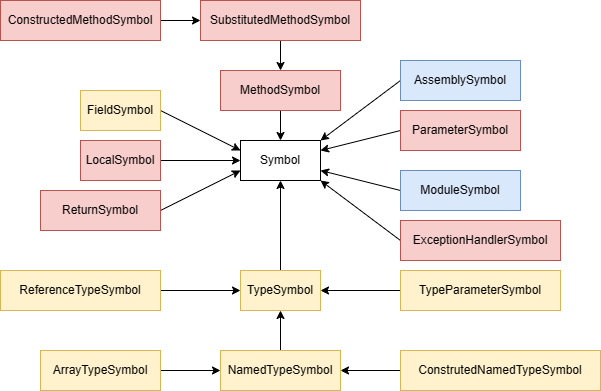
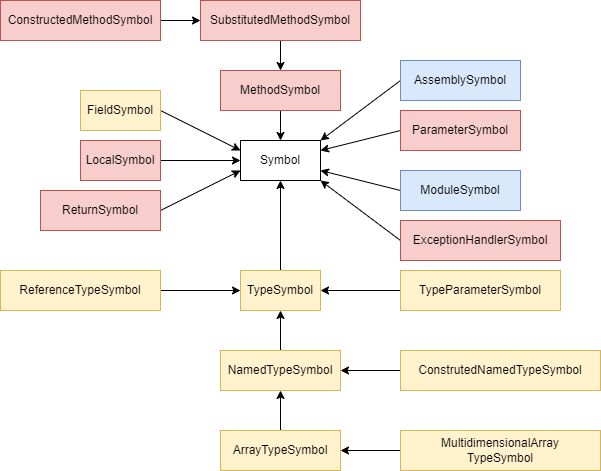
proof read and add multidimensional arrays

diff --git a/README.md b/README.md
@@ -11,11 +11,69 @@ interpreter and to provide a better support for the CIL language.
 
 Even though CIL is generated by multiple languages (C#, F#, VisualBasic), each one has its specific use-cases and
 edge-cases.
-In theory, it should not matter what language emits the CIL code, but some details might vary.
+In theory, it shouldn't matter what language emits the CIL code being interpreted, but some details might vary.
 For testing and development purposes, we have decided to use C# mainly for two reasons.
 Firstly, it was used for BACIL already.
 Secondly, all team members are familiar with it not only on the level of the language itself but also in some aspects 
 on the level of the .NET runtime and the CIL itself.
+
+## Content
+
+- [CILOSTAZOL](#cilostazol)
+  - [Content](#content)
+  - [Existing technologies](#existing-technologies)
+    - [GraalVM](#graalvm)
+    - [Truffle framework](#truffle-framework)
+    - [.NET](#net)
+      - [Type system](#type-system)
+      - [Value semantics](#value-semantics)
+      - [String](#string)
+      - [Managed pointers](#managed-pointers)
+      - [Arrays](#arrays)
+    - [BACIL](#bacil)
+      - [Parser](#parser)
+      - [Type system](#type-system-1)
+      - [Runtime](#runtime)
+    - [Espresso](#espresso)
+  - [Problem analysis](#problem-analysis)
+    - [CIL vs. Bytecode](#cil-vs-bytecode)
+    - [BACIL](#bacil-1)
+    - [Espresso](#espresso-1)
+    - [Multi-dimensional arrays](#multi-dimensional-arrays)
+  - [Developer documentation](#developer-documentation)
+    - [Parser](#parser-1)
+      - [Low-level parser](#low-level-parser)
+      - [Symbol factories](#symbol-factories)
+    - [Type system](#type-system-2)
+      - [Symbols](#symbols)
+      - [Generics](#generics)
+      - [Static object model](#static-object-model)
+      - [String](#string-1)
+      - [Arrays](#arrays-1)
+    - [Interpreter](#interpreter)
+      - [CIL interpretation](#cil-interpretation)
+      - [Type resolution](#type-resolution)
+      - [Exception handling](#exception-handling)
+      - [Static analysis](#static-analysis)
+      - [Stub methods and STDLIB](#stub-methods-and-stdlib)
+      - [Nodeization](#nodeization)
+      - [OSR](#osr)
+    - [Launcher](#launcher)
+  - [Tests](#tests)
+    - [Own tests](#own-tests)
+      - [Test from dll](#test-from-dll)
+      - [Test from code](#test-from-code)
+      - [Test from file](#test-from-file)
+    - [Pipeline](#pipeline)
+    - [Granularity](#granularity)
+    - [Benchmark game](#benchmark-game)
+      - [Benchmarking methodology](#benchmarking-methodology)
+      - [Benchmarking script](#benchmarking-script)
+      - [Results](#results)
+  - [Development process](#development-process)
+  - [Conclusion](#conclusion)
+  - [Appendix](#appendix)
+
 
 ## Existing technologies
 
@@ -225,14 +283,14 @@ implements functionality for the majority of the opcodes.
 #### Parser
 
 The foundation of the parser is very well described in the
-thesis [[15]](https://dspace.cuni.cz/handle/20.500.11956/176026) henceforth we will not describe it here into much
+thesis [[15]](https://dspace.cuni.cz/handle/20.500.11956/176026) henceforth we will not describe it here in much
 detail even though it is a vital part of BACIL. The parser allows us to read compiled bytecode and extract required
 metadata from it. The metadata is described in the *Partition II Metadata* of the CLI standard. It consists of a set of
 tables such as MethodDefTable, TypeDefTable, TypeRefTable etc. Each table contains metadata of some entity. For example,
 the TypeDefTable contains metadata of all types defined in the assembly. This metadata contains among others, name,
 indices into other tables with methods, fields etc., flags about visibility and other properties.
 
-Even though we have discussed BACIL prior to the implementation part of this project, it turned out that the parser was
+Even though we have discussed the state of BACIL with the author prior to the implementation part of this project, it turned out that the parser was
 at some points vastly incomplete for our needs along with some bugs that naturally occur in such a big project. However,
 the foundation was good enough to reuse it and extend it to our needs. This had brought a big dent into our plans and
 delayed several parts of the project.
@@ -277,9 +335,7 @@ inspiration from Roslyn. Problems are in more detail described in the following 
 
 ## Problem analysis
 
-Although Espresso showed that interpreting bytecode can be done by using the Truffle framework, we encountered several
-problems regarding the architecture of CIL and BACIL as a start project.
-In this section, we will mention the important ones.
+Although Espresso showed that interpreting bytecode can be done by using the Truffle framework, we encountered several problems regarding the architecture of CIL and BACIL as a start project. In this section, we will mention the most significant ones.
 
 ### CIL vs. Bytecode
 
@@ -287,24 +343,106 @@ There are arithmetic CIL instructions working with different types of operands.
 Although the high-level view on the instructions can look the same (e.g., adding two numbers),
 there is a difference between adding two floats and adding two integers at the low-level layer.
 So when we interpret values on the stack, we have to know their types to choose the correct version of the instruction.
-When we look at the equivalent instructions in bytecode, the instructions themselves differ between integer addition and
-float addition.
-However, we don't want to investigate the type of operands in the runtime since we're interpreting statically-typed
-language.
-So we need to create an analysis of the CIL before we execute it in order to choose the correct version of instruction
-ahead of interpreting.
+
+Take a look at the two following code snippets computing addition of integers, floats respectively, with their respecitve CIL generated by [sharplab.io](https://sharplab.io/#v2:C4LglgNgNAJiDUAfAZhA9gQ2AAg9gvNgEwCMA3ALABQqmOARgceddbVtgMZN7zb1kgA=):
+```csharp
+/*
+IL_0000: ldc.i4.s 21
+IL_0002: stloc.0
+IL_0003: ldc.i4.s 21
+IL_0005: stloc.1
+IL_0006: ldloc.0
+IL_0007: ldloc.1
+IL_0008: add
+IL_0009: stloc.2
+*/
+int a = 21;
+int b = 21;
+
+int c = a + b;
+```
+
+```csharp
+/*
+IL_0000: ldc.r4 21
+IL_0005: stloc.0
+IL_0006: ldc.r4 21
+IL_000b: stloc.1
+IL_000c: ldloc.0
+IL_000d: ldloc.1
+IL_000e: add
+IL_000f: stloc.2
+*/
+float a = 21;
+flaot b = 21;
+
+flaot c = a + b;
+```
+As we know from the previous chapter value types such as `int` and `float` are of a value type kind which means it is just a series of bytes and it is the responsibility of VES to interpret them correctly. There are two different opcodes for loading `int` and `float` onto the stack - `ldc.i4.s` and `ldc.r4` respectively. However the add instruction is exactly the same.
+
+Here are equivalent code snippets in Java and its bytecode as generated by IntelliJ:
+```java
+/*
+L0
+  LINENUMBER 3 L0
+  BIPUSH 21
+  ISTORE 1
+L1
+  LINENUMBER 4 L1
+  BIPUSH 21
+  ISTORE 2
+L2
+  LINENUMBER 6 L2
+  ILOAD 1
+  ILOAD 2
+  IADD
+  ISTORE 3
+*/
+int a = 21;
+int b = 21;
+
+int c = a + b;
+```
+```java
+/*
+L0
+  LINENUMBER 3 L0
+  LDC 21.0
+  FSTORE 1
+L1
+  LINENUMBER 4 L1
+  LDC 21.0
+  FSTORE 2
+L2
+  LINENUMBER 6 L2
+  FLOAD 1
+  FLOAD 2
+  FADD
+  FSTORE 3
+*/
+float a = 21;
+float b = 21;
+
+float c = a + b;
+```
+
+When we look at the equivalent instructions in bytecode, the instructions themselves differ between integer addition and float addition. Loads for integers and floats are differentiated similarly as in the CIL however we can see that the `ADD` instructions carries a prefix (`IADD` and `FADD`) depending on what types it operates on which is not the case in CIL.
+
+
+We don't want to investigate the type of operands in the runtime since we're interpreting statically-typed language. For this reason need to create an static analysis of the CIL before we execute it in order to interpret the instructions correclty.
 
 We also have a different type system.
-We need to deal with `struct` which has value semantics in comparison with `class`.
+We need to deal with `struct` which has value semantics in comparison with `class` with reference semantics. Some opcodes even explicitly require different behaviour when dealing with value types.
+
 The main challenge is supporting generics that are not presented in bytecode.
-We can't get inspiration from Espresso or BACIL since bytecode does not contain it and BACIL doesn't support generics.
+We can't get inspiration from Espresso or BACIL since bytecode does not contain it and BACIL doesn't support generics either.
 However, we can look at metadata representation in the Roslyn compiler and adjust it to work with partial evaluation.
 
 ### BACIL
 
 CILOSTAZOL takes BACIL and tries to extend it.
-However, there are many difficulties, which make it hard.
-The biggest problem was the parser, which we thought we would use in our implementation.
+However, there are many difficulties, which make it difficult or even impossible at times.
+The biggest problem was the parser, which we thought we would use in our implementation as is.
 We had to add a large part of parsing metadata to be able to work with generics, exception handling, and interfaces.
 As we mention later in the text, the parser can be divided into two parts.
 The first one we call a low-level parser, which was taken from BACIL.
@@ -312,34 +450,34 @@ The rest of the parser had to be reimplemented.
 
 BACIL type system is restricted to a small part of CIL and can't be extended to support generics and other advanced
 constructs.
-So a new type system has to be created.
+Therefore completely new type system has to be created.
 
-BACIL's a nonstandard way of treating stack also should be changed to use standard `VirtualFrame` which offers us
-broader
-API for working with it.
+BACIL's a nonstandard way of treating stack also should be changed to use standard `VirtualFrame` which offers us broader API for working with it. The previous problem described between bytecode and CIL ,where Java bytecode has specialised instructions for different types of operands and CIL does not, is handled in a peculiar way in BACIL. It keeps two different stacks. One for references and one for valuetypes that only support primitives. In addition the primitives are all saved in a java `long` type and the actuall type is determinded by mirrored `Type` object on the reference stack. We will resolve this problem using static analysis of the opcodes.
 
-We also have to change the execution node of BACIL since it doesn't handle exceptions and added OSR.
+We also have to change the execution node of BACIL since it doesn't handle exceptions and add *On Stack Replacement* - [*OSR*](#osr).
 
-The last change to be added is the static object model, which is different from the BACIL way.
+The last change to be added is the *Static Object Model* - [*SOM*](#static-object-model). OSR provides  an absraction to representat layout of objects that do not change their properties. That is handled differently in BACIL as well.
 
-In conclusion, we think that BACIL is so interconnected that it is almost impossible to extend it to support our defined
+In conclusion, we think that BACIL is so tangled and tightly coupled that it is almost impossible to extend it to support our defined
 features.
-Because of it, we reimplemented the whole interpreter and used common parts of BACIL
+Because of the problems described above we have decided to reimplemented the whole interpreter and use only the common parts of BACIL as a foundation.
 
 ### Espresso
 
-Although we got a lot of inspirations from Espresso, differences between CIL and bytecode are significant (generics,
-untyped instructions).
-So in the case of the type system, we got inspiration from Roslyn and adjusted it to be partially evaluation-friendly.
+Although we got a lot of inspirations from Espresso, differences between CIL and bytecode are significant (generics, untyped instructions).
+So in the case of the type system, we got inspiration from Roslyn and adjusted it to be partially evaluation-friendly. In fact we first tried to use Espresso's approach which proved to be difficult to work with and extend to the needs of CIL. Main inspiration from Roslyn was in the type system, it's generic type support and the way it handles exceptions.
 In the case of untyped instructions, we created our own static analysis which determined the type of instructions
 statically.
 
 ### Multi-dimensional arrays
 
-> TODO: Jan
-> popsat ze je musime generovat a jak to udelame
+In secion [.NET](#net) we mentioned that CIL supports vectors - single dimension zero based arrays and  multi-dimensional arrays. Multidimensional arrays do not have any classes in the standard library that we could easily interpret. Classes for non-vector arrays are generated on demand with the help of some functions from the `System.Array` class. We can either generate the classes on demand or implement our own version of non-vector arrays. The first option would require us to either generate correct bytecode that would then be parsed and continue with the rest of the type system as is. Or we could handle specific scenarios in every place where multi-dimensional arrays can occur. The latter would bring unwanted complexity to the codebase and is therefore out of the question. The first one is very tedious with generating correct and valid bytecode.
 
-## Solution
+After inspecting the functionality that non-vector arrays are supposed to provide and the helper methods from `System.Array` we decided to implement our own version of non-vector array class in C# that we would then interpret. Elements of this array would follow the CLI specification and be stored in a single dimension array. In this way we will be able to use the same type system and other existing functionalities without additional overhead. 
+
+It must be said that none of the mentioned approaches works with memory in an efficient way and we can not expect to have the same performance as in .NET. However, we believe that this is a reasonable trade-off for the simplicity of the implementation.
+
+## Developer documentation
 
 The solution consists of many parts responsible for distinct purposes.
 We provide brief descriptions of them to make the navigation between them easier.  
